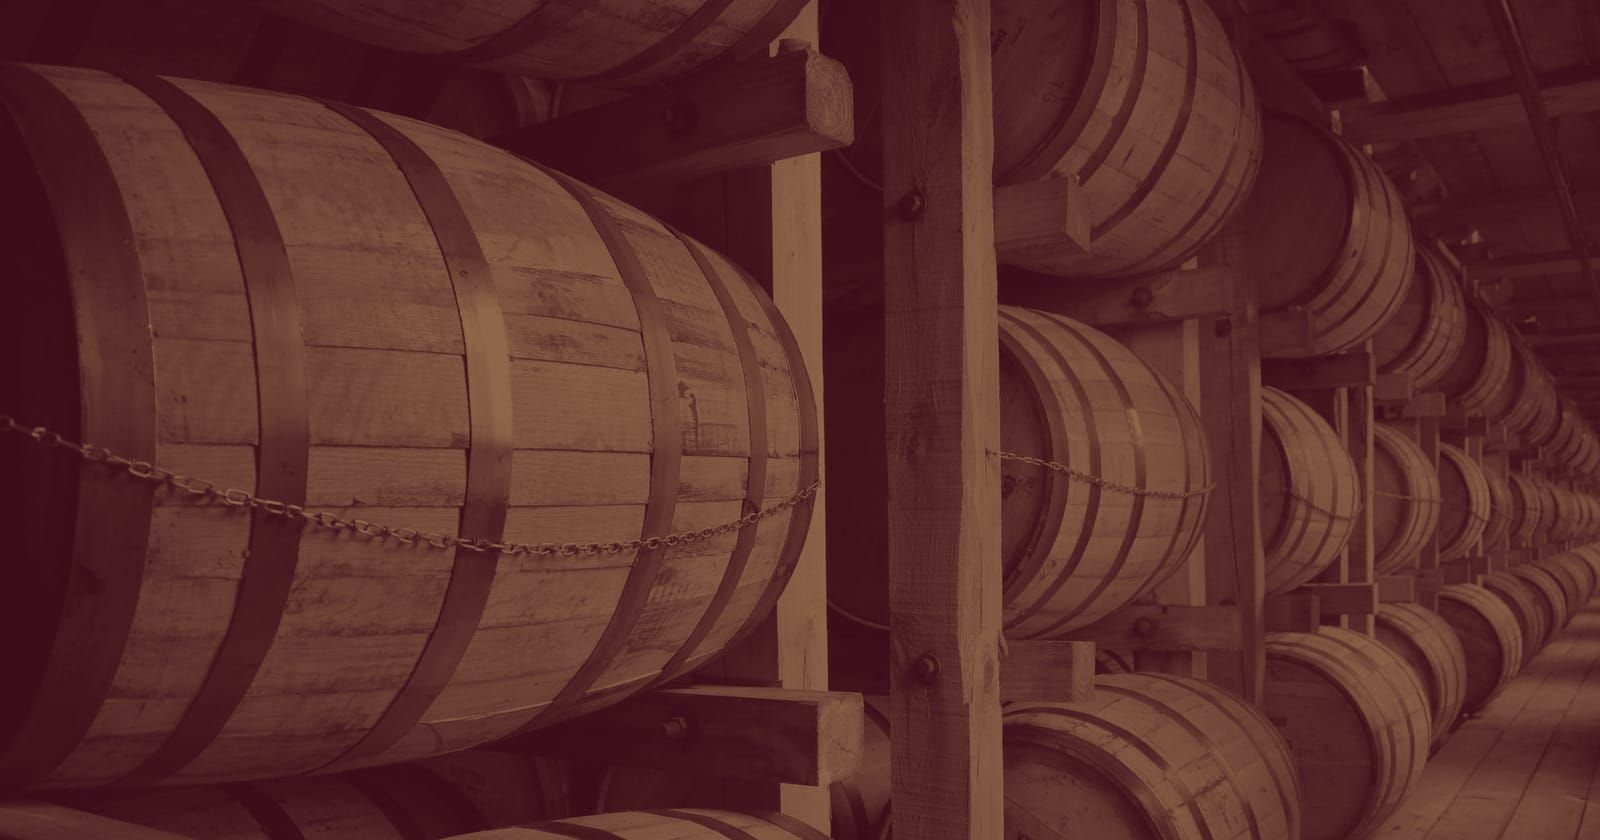
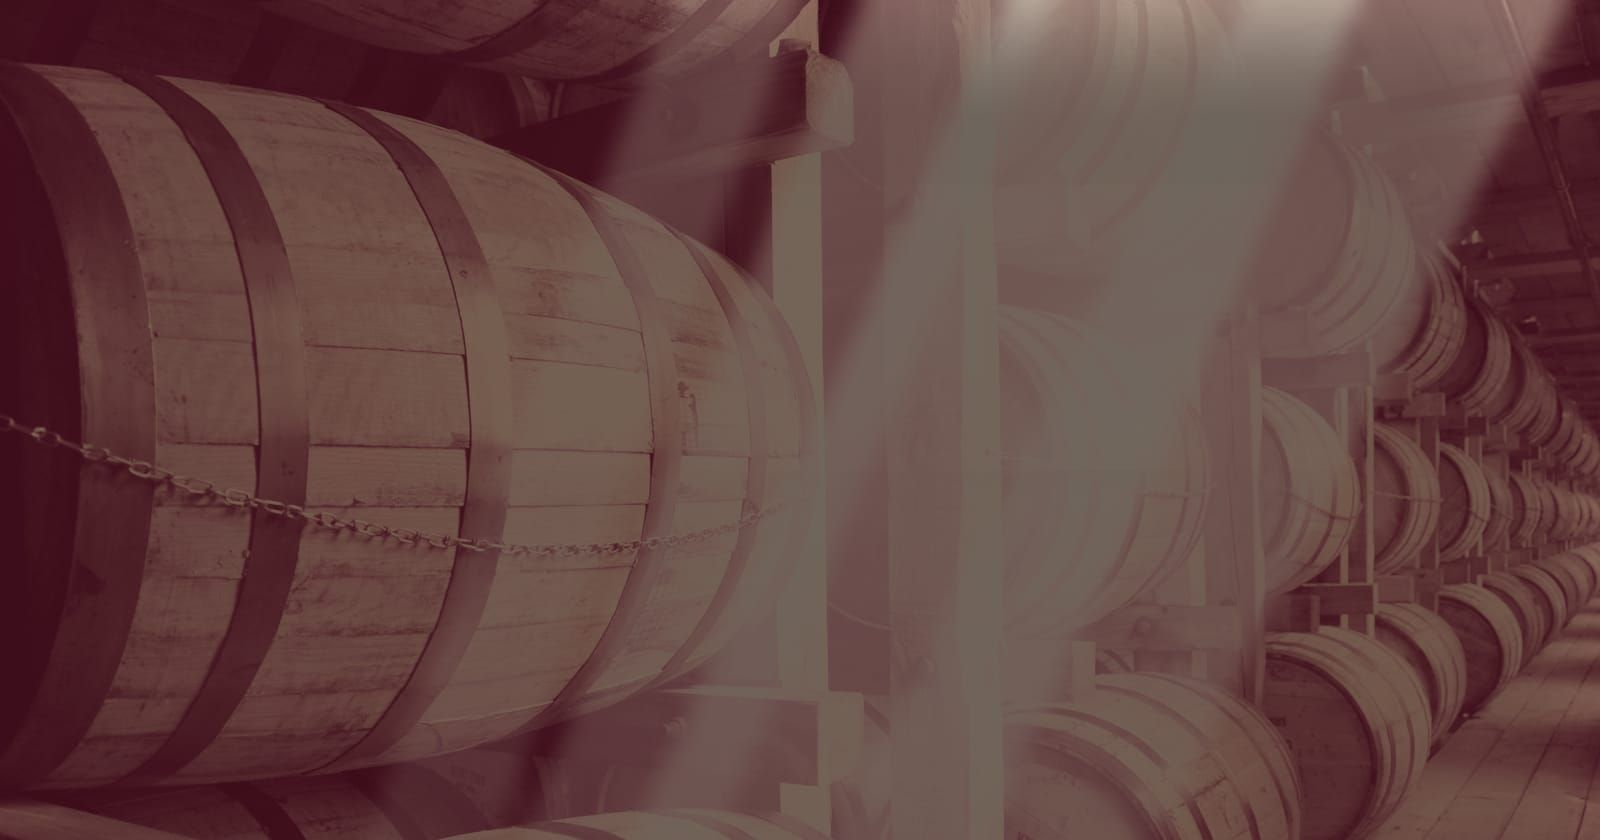
Brighter hero photo with light shafts

diff --git a/src/app/globals.css b/src/app/globals.css
@@ -9,8 +9,6 @@
   --cream: #f4e8d6;
   --paper: #e9d3a8;
   --muted: #d9b9a0;
-  /* Flat wine wash over the hero photo (no gradient). npm run hero reads this alpha and checks text contrast against it. */
-  --hero-overlay: rgb(58 13 25 / 0.55);
   color-scheme: dark;
 }
 
@@ -67,13 +65,6 @@ body {
   height: 100%;
   object-fit: cover;
   object-position: center;
-}
-.dg-hero::after {
-  content: "";
-  position: absolute;
-  inset: 0;
-  z-index: -1;
-  background: var(--hero-overlay);
 }
 @media (min-width: 768px) {
   .dg-hero {

diff --git a/src/data/types.ts b/src/data/types.ts
@@ -99,5 +99,6 @@ export type ImageRecord = {
   licenseUrl: string | null
   retrievedOn: string // YYYY-MM-DD
   localPath: string // original, downscaled to at most 2400 px wide; not served publicly
+  changes?: string // what was done to the photo; shown in the footer credit
   crop?: { left: number; top: number; width: number; height: number } // share-image crop in localPath pixels; default is the centre
 }

diff --git a/src/components/SiteFooter.tsx b/src/components/SiteFooter.tsx
@@ -43,7 +43,7 @@ export default function SiteFooter() {
                 </a>
               ) : (
                 photo.license
-              )}
+              )}{photo.changes ? `. ${photo.changes}` : null}
             </p>
           )}
           {MAP.credits.map((c) => (

diff --git a/CLAUDE.md b/CLAUDE.md
@@ -131,11 +131,11 @@ Next.js 16 App Router, TypeScript strict, Tailwind CSS 4. No plain JavaScript.
 - Storage (if ever used) goes through `src/lib/safe-storage.ts`; the page must work without it.
 
 ## Hero band
-- The page opens with a full-bleed hero band (340px on phones, 460px from 768px): the licensed photo in `images.json`, pre-toned wine-to-gold by `npm run hero` into `public/hero/hero-800.jpg` and `hero-1600.jpg` (each under 150 KB; rerun and commit them when the photo or its crop changes), a flat wine wash (`--hero-overlay` in globals.css; no gradient), and the ribbon, headline and subline centred on top. The `<img>` is decorative (empty alt), has width/height set and is preloaded; the footer credit stays. `npm run hero` reads the overlay alpha and fails if the subline is under 4.5:1 or the headline under 3:1 over the brightest pixel.
+- The page opens with a full-bleed hero band (340px on phones, 460px from 768px): the licensed photo in `images.json`, toned by `npm run hero` (scripts/lib/hero-tone.mjs, shared with the share image: shadows #3a0d19 to highlights #f6e2b0, a wine veil rgba(70,14,30,.40), four fixed soft light shafts from the top right, all baked into the JPEG, no runtime effects) into `public/hero/hero-800.jpg` and `hero-1600.jpg` (each under 150 KB; rerun and commit them when the photo or its crop changes), and the ribbon, headline and subline centred on top. The `<img>` is decorative (empty alt), has width/height set and is preloaded; the footer credit stays. `npm run hero` compresses brightness only under the text zones (soft knee, feathered) and fails if the subline is under 4.5:1 or the headline under 3:1 over the final image; `npm run og` does the same at 4.5:1 for headline and tagline. images.json `changes` text appears in the footer credit.
 - The tab icon is a square stamp (wine-deep fill, gold 3px border, gold stencil "B"), made by `npm run icons`. theme-color is map.json `accent` (= --wine).
 
 ## Share image
-- `src/app/opengraph-image.jpg` (1200x630, under 300 KB, alt text in `opengraph-image.alt.txt`) is generated by `npm run og` (`scripts/make-og.mjs`, headless Chrome/Edge via tsx). It reads outline, stops and groups from `src/data`, and the hero photo from `src/data/images.json` (original kept in `assets/images/`, outside `public/`, so it is never served; centre-cropped, wine-to-gold duotone, headline and tagline contrast over it asserted at 4.5:1 or the script fails), so rerun it and commit the JPEG when the design or the stops change. The script is .mjs by request; everything else stays TypeScript.
+- `src/app/opengraph-image.jpg` (1200x630, under 300 KB, alt text in `opengraph-image.alt.txt`) is generated by `npm run og` (`scripts/make-og.mjs`, headless Chrome/Edge via tsx). It reads outline, stops and groups from `src/data`, and the hero photo from `src/data/images.json` (original kept in `assets/images/`, outside `public/`, so it is never served; centre-cropped, warm tone with wine veil and light shafts via scripts/lib/hero-tone.mjs, headline and tagline contrast over it asserted at 4.5:1 or the script fails), so rerun it and commit the JPEG when the design or the stops change. The script is .mjs by request; everything else stays TypeScript.
 - `images.json` records each photo (title, Commons page, author, license, retrievedOn, localPath); check:data fails if a field is missing, the license is not public domain, CC0, CC BY or CC BY-SA (NC and ND fail), sourceUrl is not https, or the file is missing. The footer credit "Photo: <title> by <author>, <license>" appears only while a record exists. Check a candidate photo by eye for faces and brand text before adding it; an optional `crop` keeps unwanted marks out of the share image. CC BY-SA is share-alike: the share image is an adaptation of the photo, so it carries the photo's license and credit (the footer links the license).
 - `metadataBase` in layout.tsx: NEXT_PUBLIC_SITE_URL, else https://$VERCEL_PROJECT_PRODUCTION_URL, else omitted. Never hard-code a domain.
 
